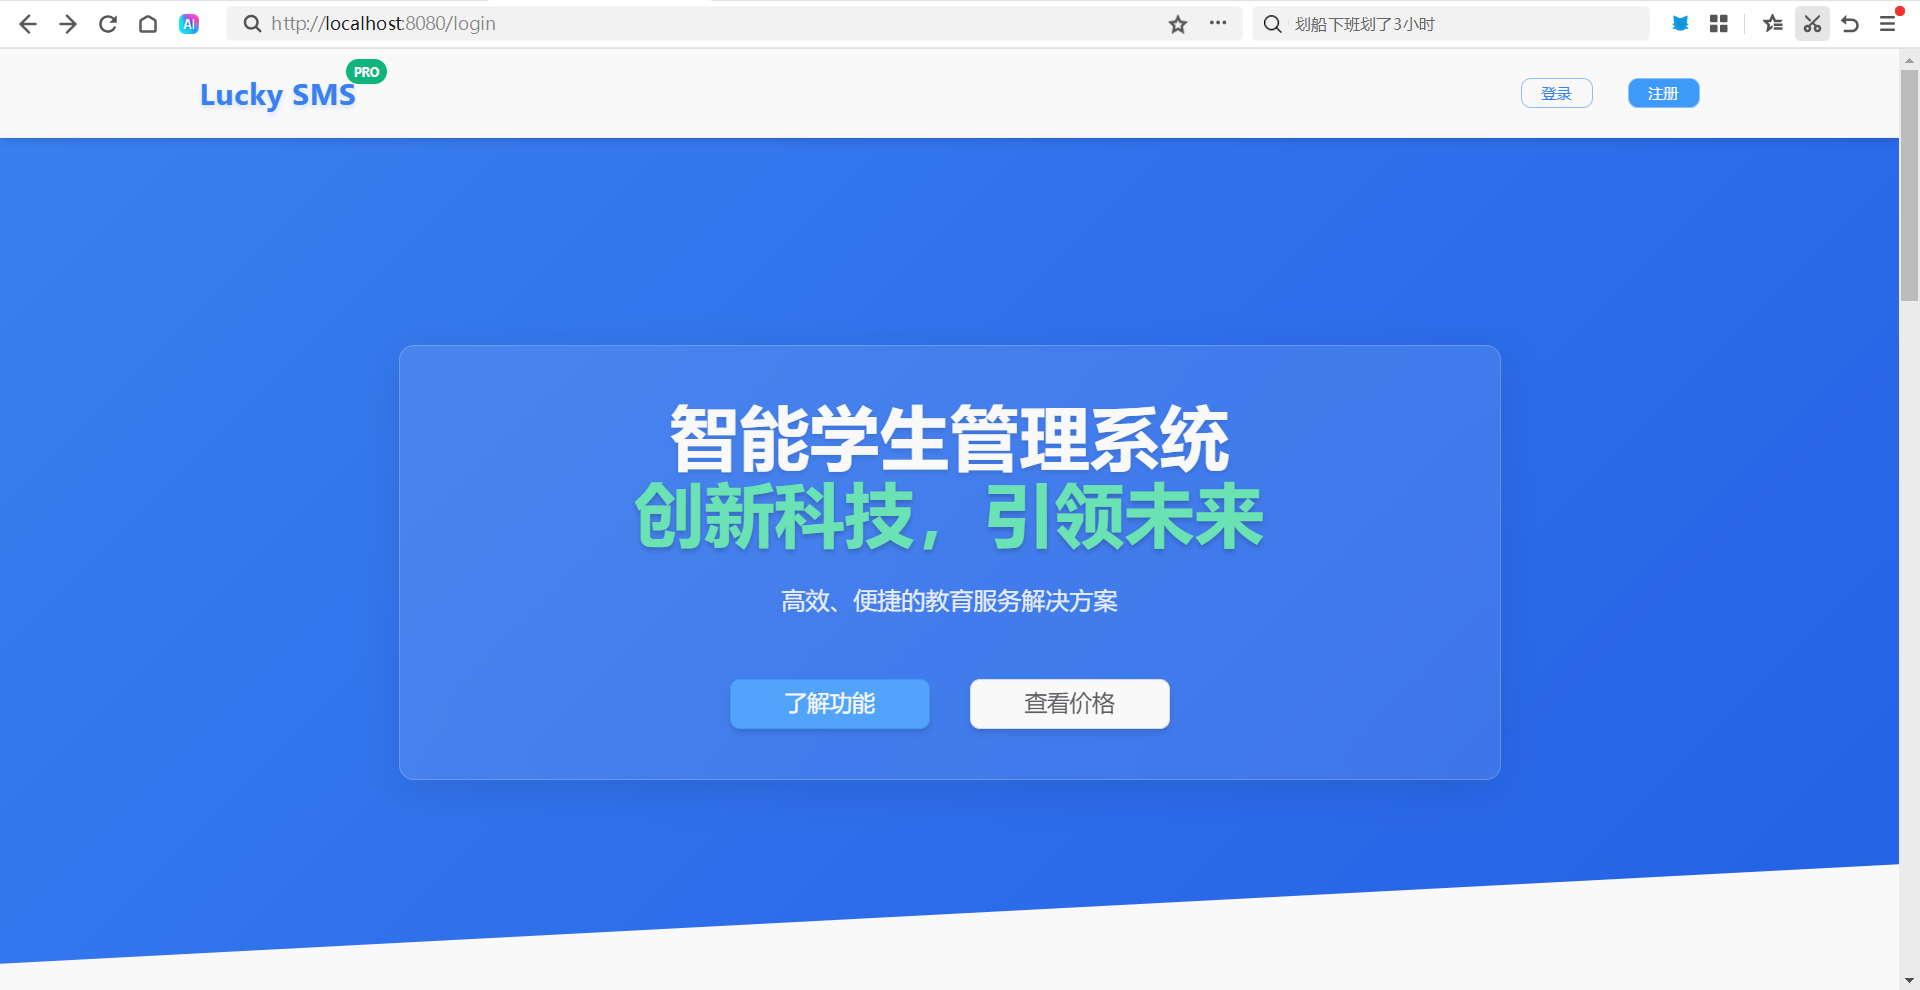
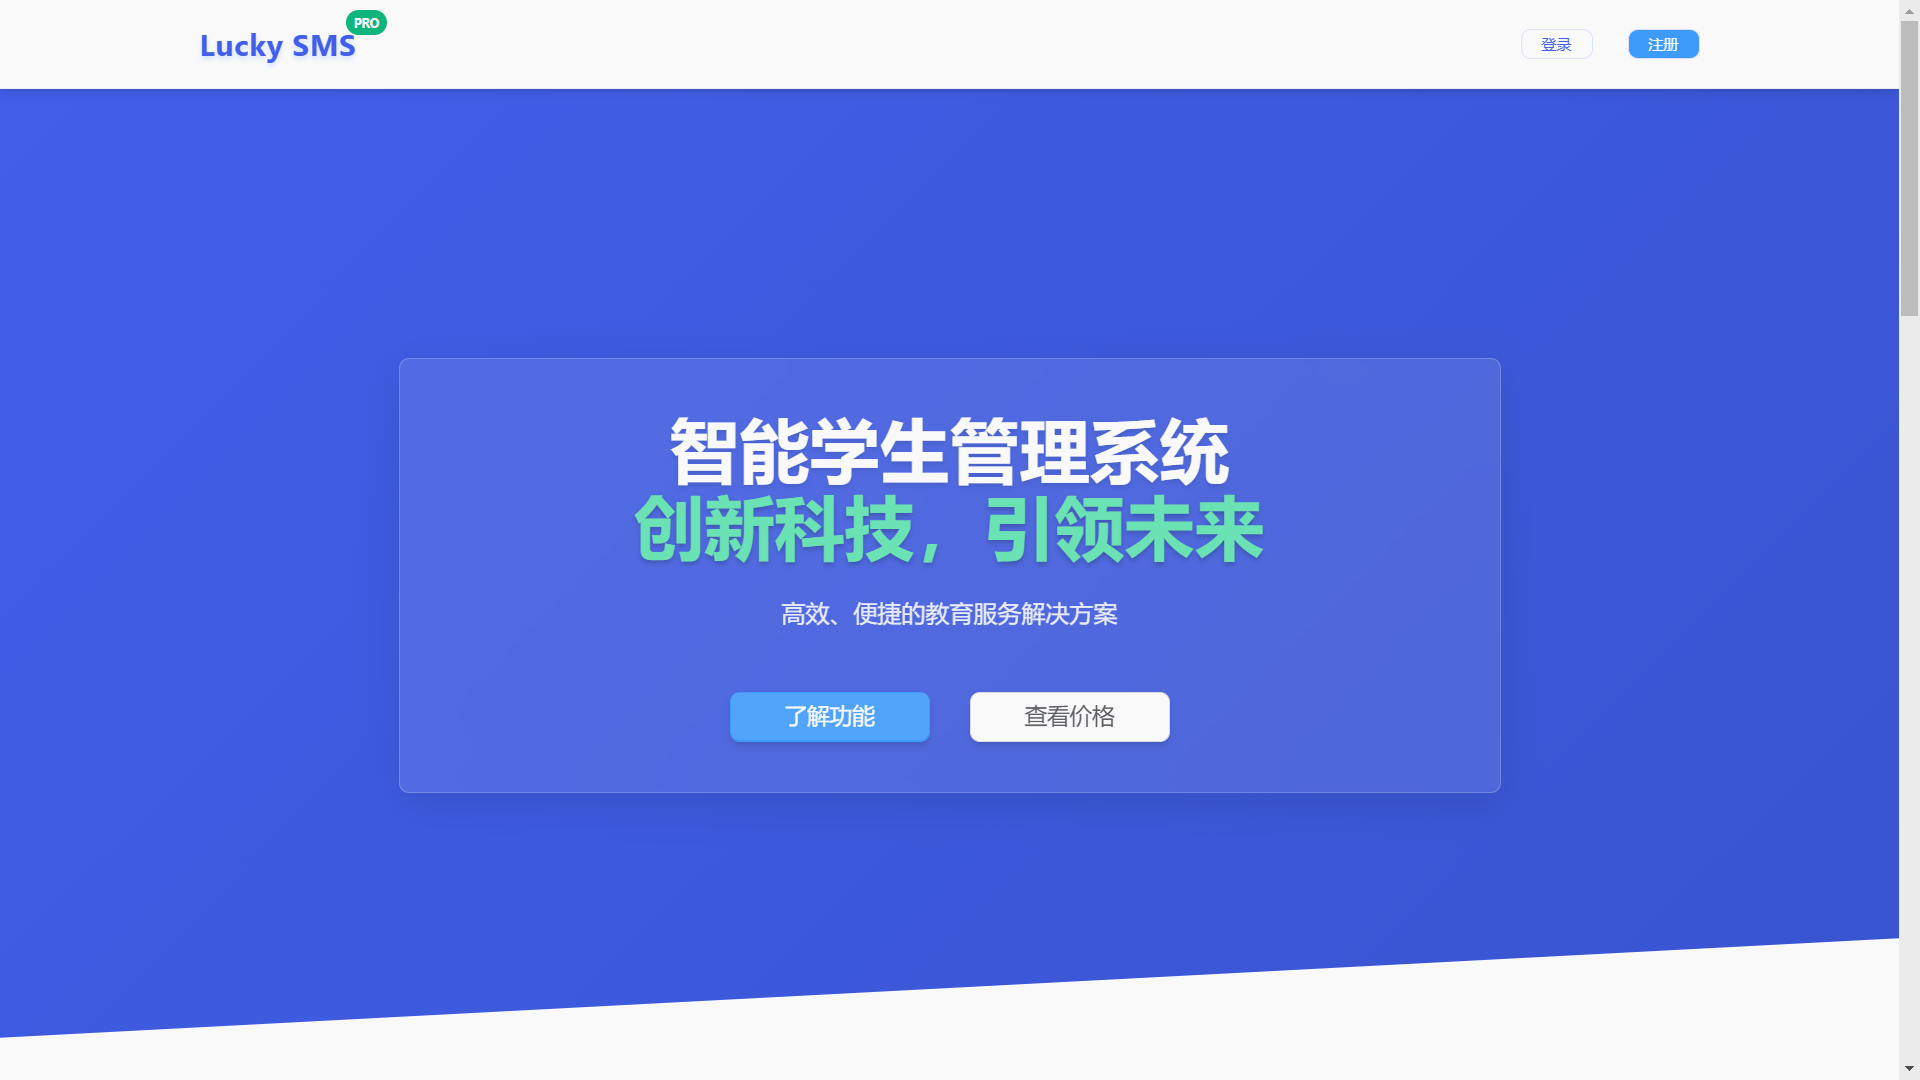
update

diff --git a/frontend/src/components/IndexLayout.vue b/frontend/src/components/IndexLayout.vue
@@ -382,7 +382,7 @@ onUnmounted(() => {
   line-height: 1.6;
   color: var(--gray-800);
   background-color: var(--white);
-  overflow-x: hidden;
+  /* overflow-x: hidden; */
   min-height: 100vh;
   display: flex;
   flex-direction: column;
@@ -427,14 +427,21 @@ onUnmounted(() => {
 .top-nav {
   background: rgba(255, 255, 255, 0.95);
   backdrop-filter: blur(10px);
-  -webkit-backdrop-filter: blur(10px);
   padding: 16px 0;
   box-shadow: var(--shadow-md);
-  position: sticky;
-  top: 0;
-  z-index: 100;
-  transition: var(--transition);
   border-bottom: 1px solid var(--gray-100);
+
+  /* 强化粘性定位 */
+  position: sticky;
+  /* 核心：粘性定位 */
+  top: 0;
+  /* 必须设置 top 值，否则 sticky 不生效 */
+  z-index: 9999;
+  /* 提高层级，避免被其他元素覆盖 */
+  width: 100%;
+  /* 确保宽度占满屏幕 */
+  left: 0;
+  /* 固定左侧位置 */
 }
 
 .nav-content {

diff --git a/frontend/src/components/StudentLayout.vue b/frontend/src/components/StudentLayout.vue
@@ -130,7 +130,7 @@
           <!-- 加载状态 -->
           <div class="content-loading" v-if="isLoading">
             <el-spinner size="40" type="ball-clip-rotate" />
-            <p class="loading-text">加载中...</p>
+            <div v-loading="isLoading"></div>
           </div>
 
           <!-- 错误状态 -->
@@ -807,11 +807,6 @@ onUnmounted(() => {
   gap: 16px;
   z-index: 10;
   border-radius: var(--border-radius-lg);
-}
-
-.loading-text {
-  color: var(--gray-600);
-  font-size: 0.875rem;
 }
 
 .dark-mode .content-loading {

diff --git a/frontend/src/components/TeacherLayout.vue b/frontend/src/components/TeacherLayout.vue
@@ -186,7 +186,7 @@
           <!-- 加载状态 -->
           <div class="content-loading" v-if="isLoading">
             <el-spinner size="40" type="ball-clip-rotate" />
-            <p class="loading-text">加载中...</p>
+            <div v-loading="isLoading"></div>
           </div>
 
           <!-- 错误状态 -->
@@ -874,11 +874,6 @@ onUnmounted(() => {
   gap: 16px;
   z-index: 10;
   border-radius: var(--border-radius-lg);
-}
-
-.loading-text {
-  color: var(--gray-600);
-  font-size: 0.875rem;
 }
 
 .dark-mode .content-loading {
